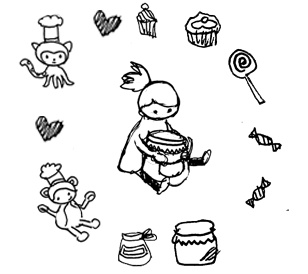
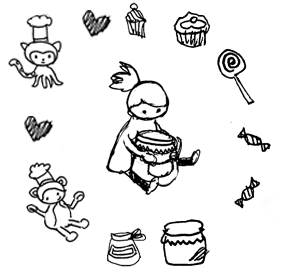
krakow page

diff --git a/css/style.css b/css/style.css
@@ -55,7 +55,7 @@ body {
 
 .krakow#promo {
   padding-left:340px;
-  background:url('../images/rg-krakow.png') no-repeat 0 10px,
+  background:url('../images/rg-krakow.png') no-repeat 10px 40px,
                  url('../images/separator.png') no-repeat center bottom;
 }
 
